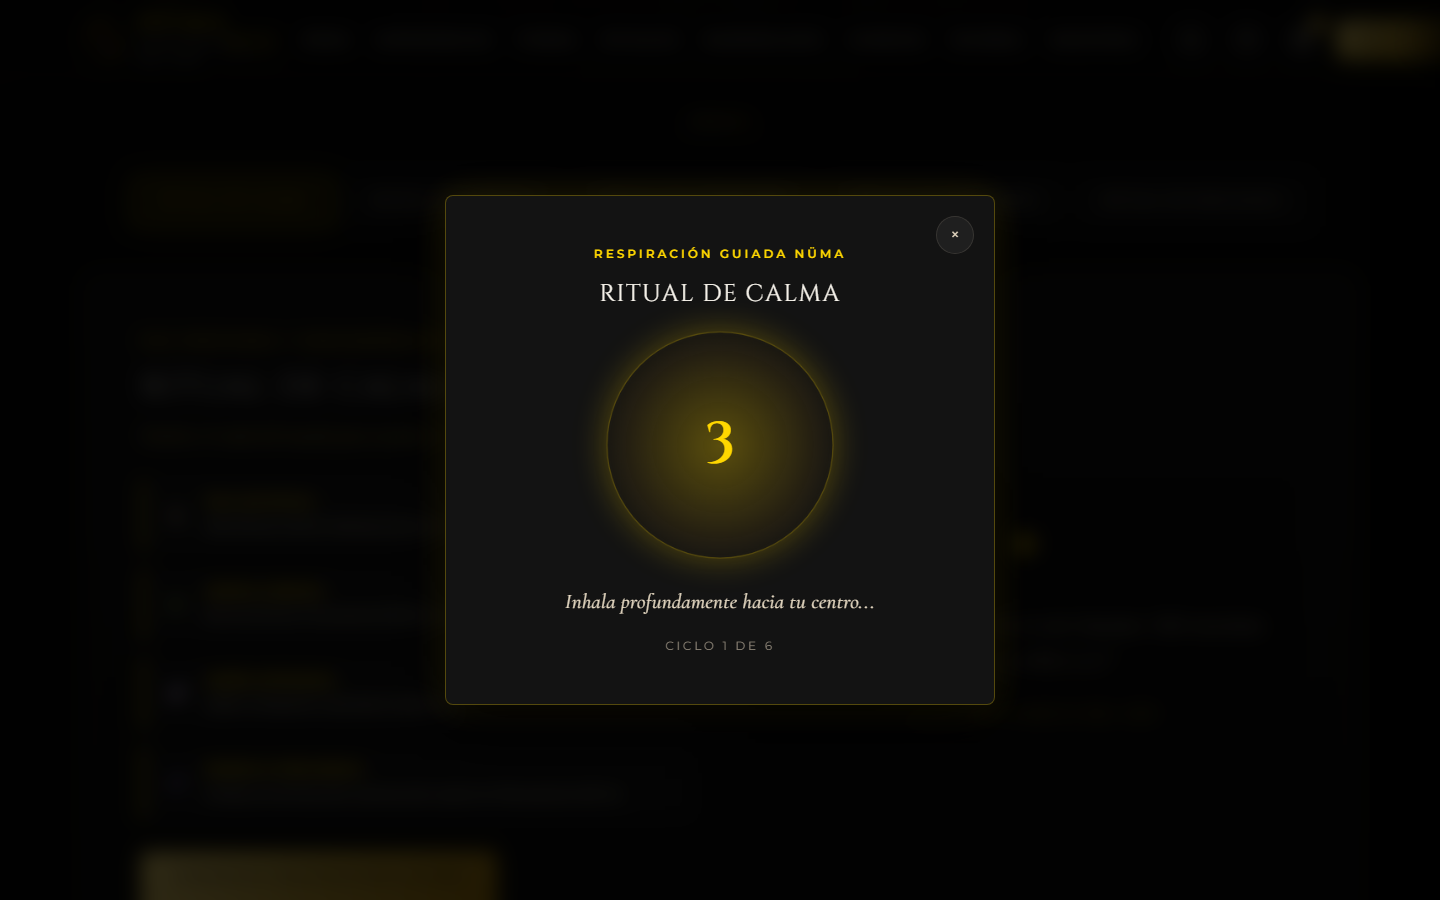
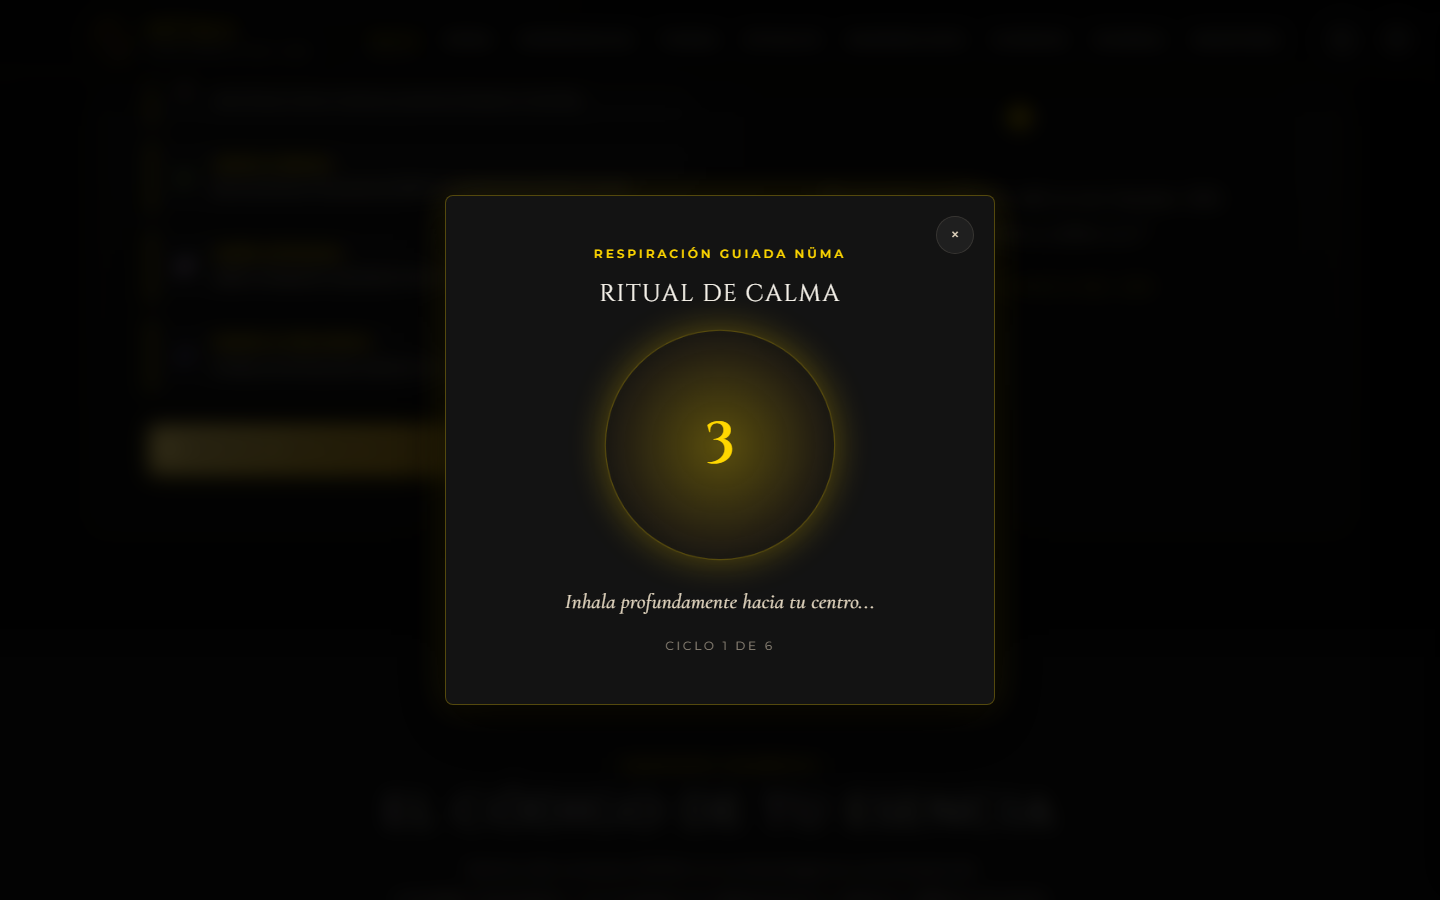
style(ui): optimización de header móvil, drawer de navegación, balance de elementos y ajuste de vistas

Changed region(s): [[0.0938, 0.9333, 0.3438, 1.0], [0.0938, 0.4667, 0.3125, 0.5289], [0.9062, 0.0311, 0.9688, 0.0622]]

diff --git a/src/styles/responsive.css b/src/styles/responsive.css
@@ -25,33 +25,56 @@
 
 @media (max-width: 768px) {
   :root {
-    --header-height: 70px;
+    --header-height: 64px;
   }
 
   .container {
-    padding: 0 1.25rem;
+    padding: 0 1rem;
   }
 
-  /* Ocultar botón reservar en el header móvil para dar espacio a logo y menú */
-  .header-actions .btn-primary {
+  /* Ocultar botón reservar y wishlist en header móvil para evitar desbordamiento */
+  .header-actions .btn-primary,
+  #header-wishlist-btn {
     display: none;
   }
 
   .header-inner {
-    gap: 1rem;
+    gap: 0.5rem;
+  }
+
+  .header-brand {
+    gap: 0.6rem;
+    margin-right: 0;
+  }
+
+  .header-logo-img {
+    width: 34px;
+    height: 34px;
   }
 
   .header-brand-text .brand-name {
-    font-size: 1.15rem;
+    font-size: 1.1rem;
   }
 
   .header-brand-text .brand-desc {
-    font-size: 0.5rem;
-    letter-spacing: 0.25em;
+    font-size: 0.48rem;
+    letter-spacing: 0.22em;
   }
 
   .header-actions {
-    gap: 0.5rem;
+    gap: 0.4rem;
+  }
+
+  .btn-icon {
+    width: 36px;
+    height: 36px;
+  }
+
+  .mobile-menu-toggle {
+    width: 36px;
+    height: 36px;
+    padding: 0;
+    font-size: 1.25rem;
   }
 
   .section {
